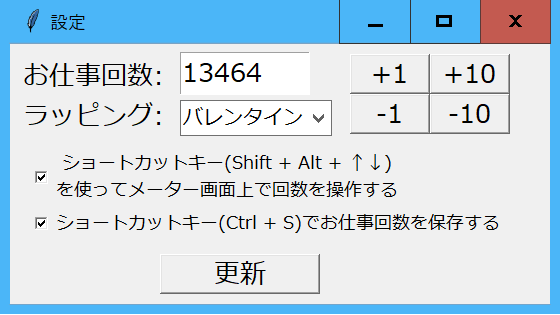
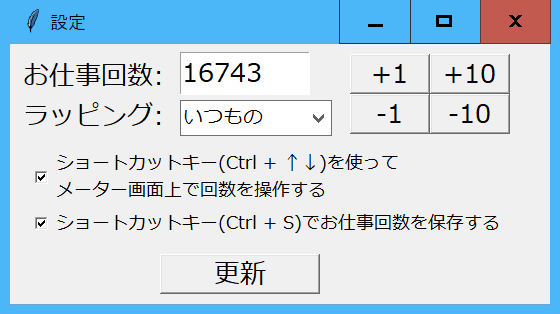
ver3.2公開

diff --git a/siimeter.py b/siimeter.py
@@ -1,5 +1,6 @@
 #coding:utf-8
-#次の修正点:設定画面で正の整数エラー→×ボタンの時にillegalな整数を更新する
+
+#ver3.1.3保存機能増やした
 #GUI
 import tkinter as tk
 #コンボボックスで使用
@@ -33,7 +34,7 @@ y1 = 31
 def point_img(digit, window_x):
     return [(window_x-x1r)-(x_img+interval)*(digit), y1]
 
-
+ver = "3.2"
 #シイメーターオブジェクト
 class Meter(tk.Frame):
     def __init__(self, master):
@@ -41,10 +42,10 @@ class Meter(tk.Frame):
         super().__init__(master)
 
         self.pack()
-        self.master.title("SII-METER ver.3.1.2")
+        self.master.title("SII-METER ver."+ver)
 
         self.import_data()
-        self.load_num()
+        self.num_to_panel()
         self.create_canvas()
         self.create_panel()
 
@@ -62,7 +63,7 @@ class Meter(tk.Frame):
     
     #メンバ変数の数字->桁数,画像ファイル
     #使用:①開始時　②更新時　③ショートカット回数操作時
-    def load_num(self):
+    def num_to_panel(self):
         self.digits = int(math.log10(self.num))+1
         img = []
         num = self.num
@@ -98,8 +99,10 @@ class Meter(tk.Frame):
         if self.wrap == 0:
             img_siira = Image.open(r'panel\defalt3.1.png')
         elif self.wrap == 1:
-            img_siira = Image.open(r'panel\transparent.png')
+            img_siira = Image.open(r'panel\defalt2_3.1.png')
         elif self.wrap == 2:
+            img_siira = Image.open(r'panel\transparent.png')
+        elif self.wrap == 3:
             img_siira = Image.open(r'panel\maid3.1.png')
         img_siira = ImageTk.PhotoImage(img_siira)
 
@@ -132,6 +135,8 @@ class Meter(tk.Frame):
             self.canvas.create_image(p[0], p[1], image=imgs[digit], anchor=tk.NW)
 
     def create_config(self,event):
+        #設定ウィンドウを作り、メーターウィンドウの選択を禁ずる
+        # →ショートカットが使えなくなる
         self.config = tk.Toplevel(self)
         self.config.focus_set()
         self.config.grab_set()
@@ -180,14 +185,14 @@ class Meter(tk.Frame):
 
 
         #ラッピング変更
-        self.wraplist = ["デフォルト" , "バレンタイン", "メイド"]
+        self.wraplist = ["いつもの", "いつもの2", "バレンタイン", "メイド"]
 
         self.cb = ttk.Combobox(self.config, values=self.wraplist, state='readonly', width=10, font=font3)
         #self.cb.place(x=200, y=200) 
         self.cb.grid(column=0, row=0, padx=170, pady=56)
         self.cb.current(self.wrap)
       
-        self.chk = tk.Checkbutton(self.config, variable=self.bln, font=font4, text='ショートカットキー(Shift + Alt + ↑↓)\nを使ってメーター画面上で回数を操作する')
+        self.chk = tk.Checkbutton(self.config, variable=self.bln, font=font4, text='ショートカットキー(Ctrl + ↑↓)を使って\nメーター画面上で回数を操作する　　　　')
         self.chk.place(x=20, y=100)
 
         self.chk2 = tk.Checkbutton(self.config, variable=self.bln2, font=font4, text='ショートカットキー(Ctrl + S)でお仕事回数を保存する')
@@ -197,6 +202,7 @@ class Meter(tk.Frame):
         self.btn_reload = tk.Button(self.config, font=font2 ,text='更新') 
         self.btn_reload.place(x=150, y=210, width=160, height=40) 
         self.btn_reload.configure(command = self.reload) 
+
     
     def reload(self):
         try:
@@ -208,24 +214,43 @@ class Meter(tk.Frame):
 
             #推しごと回数
             num_tmp = int(self.entry.get())
-            self.num = num_tmp
-            digits_p = self.digits
-            self.load_num()
 
             #リロード
             #flag_canvasならば背景も変える
-            if num_tmp > 0:   
+            if num_tmp > 0 and num_tmp < 1000000:
                 self.config.destroy()
+
+                self.num = num_tmp
+                digits_p = self.digits
+                self.num_to_panel()
+
                 #桁数orラッピングの変更チェック
                 if self.digits != digits_p or self.wrap != wrap_p:
                     self.create_canvas()
                 self.create_panel()
+
+                #numがjsonに保存されているかどうか？
+                self.check_save()
+            elif num_tmp >= 1000000:
+                messagebox.showerror('エラー', '7桁以上は対応しておりません…',parent=self.config)
             else:
                 messagebox.showerror('エラー', '1以上を入力してください',parent=self.config)
         except ValueError:
             messagebox.showerror('エラー', '正の整数を入力してください！',parent=self.config)
         except IndexError:
             messagebox.showerror('エラー', '7桁以上は対応しておりません…',parent=self.config)
+    
+    def reload_meter(self):
+        digits_p = self.digits
+        self.num_to_panel()
+
+        #桁数orラッピングの変更チェック
+        if self.digits != digits_p:
+            self.create_canvas()
+        self.create_panel()
+
+        #numがjsonに保存されているかどうか？
+        self.check_save()
     
     #ボタンによるお仕事回数(entrybox)を操作
     def add_num(self, add):
@@ -240,12 +265,14 @@ class Meter(tk.Frame):
     #ショートカットによるお仕事回数操作
     def add_num_main(self,num):
         if self.bln.get() and self.num + num > 0 and self.num + num < 1000000:
-            digits_p = self.digits
             self.num += num
-            self.load_num()
-            if self.digits != digits_p:
-                self.create_canvas()
-            self.create_panel()
+            self.reload_meter()
+    
+    #お仕事回数を保存時に戻す
+    def undo_num(self, event):
+        self.num = self.data["oshigoto"]
+        #add_numと一緒
+        self.reload_meter()
 
 
     #はじめは空欄
@@ -260,31 +287,35 @@ class Meter(tk.Frame):
 
 
     def closing2(self):
-        self.close = tk.Toplevel(self)
-        self.close.focus_set()
-        self.close.grab_set()
+        if self.check_save():
+            #TFどっちでもいいが処理数削減のため
+            self.close_save(False)
+        else:
+            self.close = tk.Toplevel(self)
+            self.close.focus_set()
+            self.close.grab_set()
 
-        self.close.geometry("540x180")
-        self.close.title("Quit")
+            self.close.geometry("540x180")
+            self.close.title("Quit")
 
-        self.canvas = tk.Canvas(self.close,bg = "white", width=540, height=100)
-        self.canvas.place(x=0, y=0)
+            self.canvas = tk.Canvas(self.close,bg = "white", width=540, height=100)
+            self.canvas.place(x=0, y=0)
 
-        font3 = font.Font(family='Meiryo', size=9)
-        label = tk.Label(self.close, text="本日のお仕事回数をdata_oshigoto.txtに保存しますか？", font=font3 ,bg = "white")
-        label.place(x=20, y=50)
-        
-        self.btn_yes = tk.Button(self.close, font=font3 ,text='保存') 
-        self.btn_yes.place(x=140, y=120, width=120, height=36)
-        self.btn_yes.configure(command = lambda: self.close_save(True)) 
+            font3 = font.Font(family='Meiryo', size=9)
+            label = tk.Label(self.close, text="本日のお仕事回数をdata_oshigoto.txtに保存しますか？", font=font3 ,bg = "white")
+            label.place(x=20, y=50)
+            
+            self.btn_yes = tk.Button(self.close, font=font3 ,text='保存') 
+            self.btn_yes.place(x=140, y=120, width=120, height=36)
+            self.btn_yes.configure(command = lambda: self.close_save(True)) 
 
-        self.btn_no = tk.Button(self.close, font=font3 ,text='保存しない') 
-        self.btn_no.place(x=270, y=120, width=120, height=36)
-        self.btn_no.configure(command = lambda: self.close_save(False)) 
+            self.btn_no = tk.Button(self.close, font=font3 ,text='保存しない') 
+            self.btn_no.place(x=270, y=120, width=120, height=36)
+            self.btn_no.configure(command = lambda: self.close_save(False)) 
 
-        self.btn_cancel = tk.Button(self.close, font=font3 ,text='キャンセル') 
-        self.btn_cancel.place(x=400, y=120, width=120, height=36)
-        self.btn_cancel.configure(command = self.close_cancel) 
+            self.btn_cancel = tk.Button(self.close, font=font3 ,text='キャンセル') 
+            self.btn_cancel.place(x=400, y=120, width=120, height=36)
+            self.btn_cancel.configure(command = self.close_cancel) 
 
     def save_txt(self):
         with open('data_oshigoto.txt',mode='r',encoding='utf-8') as f:
@@ -336,9 +367,21 @@ class Meter(tk.Frame):
             self.data["oshigoto"] = self.num #新たに修正した箇所
             with open('data.json',mode='w',encoding='utf-8') as f:
                 json.dump(self.data, f, indent=4, ensure_ascii=False)
-            self.master.title("SII-METER ver.3.1.2 - 保存しました")
+            self.master.title("SII-METER ver."+ver+" - 保存しました")
             time.sleep(1)
-            self.master.title("SII-METER ver.3.1.2")
+
+            self.check_save()
+    
+    #お仕事回数が保存されているかチェック
+    def check_save(self):
+        if self.num != self.data["oshigoto"]:
+            self.master.title("SII-METER ver."+ver+" - 未保存")
+            return False
+        else:
+            self.master.title("SII-METER ver."+ver)
+            return True
+    
+
 
 
 # 回数の読み込み
@@ -353,23 +396,28 @@ def main():
     #イベント
     #root == siimeter.master
     sii_meter.master.bind(
-        "<ButtonPress>", # 受付けるイベント
+        "<ButtonPress>", # 受付けるイベント<Double-1>
         sii_meter.create_config # そのイベント時に実行する関数
     )
 
     sii_meter.master.bind(
-        "<Shift-Alt-Up>", # 受付けるイベント
+        "<Control-Up>", # 受付けるイベント
         lambda event: sii_meter.add_num_main(1) # そのイベント時に実行する関数
     )
 
     sii_meter.master.bind(
-        "<Shift-Alt-Down>", # 受付けるイベント
+        "<Control-Down>", # 受付けるイベント
         lambda event: sii_meter.add_num_main(-1) # そのイベント時に実行する関数
     )
 
     sii_meter.master.bind(
         "<Control-s>", # 受付けるイベント
         sii_meter.event_save # そのイベント時に実行する関数
+    )
+
+    sii_meter.master.bind(
+        "<Control-z>", # 受付けるイベント
+        sii_meter.undo_num # そのイベント時に実行する関数
     )
 
     sii_meter.master.protocol("WM_DELETE_WINDOW", sii_meter.closing2)
